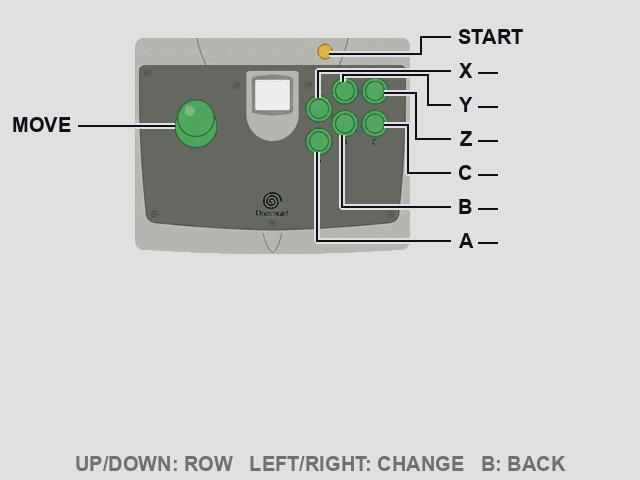
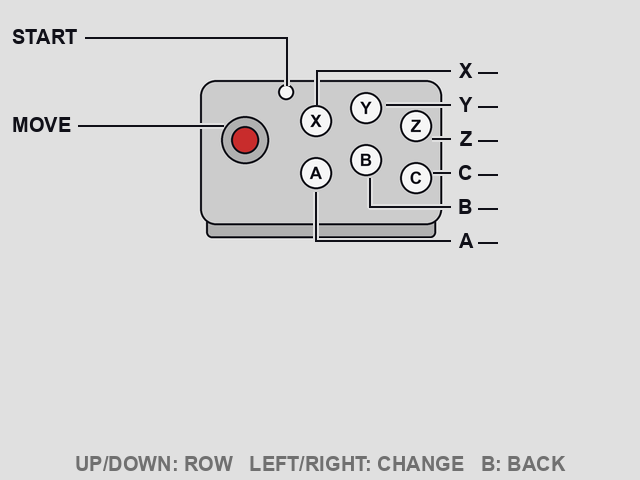
Controls art round 3: code-drawn HKT-7700/7300 schematics replace AI photos
Operator dropped the AI-generated diagrams (round-2 de-mottle still hit
the JPEG source's quality floor). draw_pad()/draw_stick() render both
devices as flat-color schematics at 4x -> Lanczos, union-outline
silhouettes, DC letter colors on the pad diamond. Photo pipeline
(smooth/autocrop/quantize/tint/floodfill) and the two *_diagram.png
sources deleted; button centres are geometry constants shared with the
leader-lands-on-button asserts. Leaders re-routed for the new geometry
(pad START leader doubles as the cable; stick Y overflies Z's top edge).

Claude-Session: https://claude.ai/code/session_01X6uFhpM3UtnfGFSiTQNCxS

diff --git a/scripts/gen_menu_assets.py b/scripts/gen_menu_assets.py
@@ -5,8 +5,8 @@ controls pages, loader/controls_pad.png / controls_stick.png (640x480), and
 emits loader/menu_layout.h (sheet rects + dest coordinates + the settings byte
 tables) and shims/src/layouts.h (button->JVS tables), both from menu_def.py.
 
-All art is drawn here (text + flat shapes) or derived from the operator's own
-controller diagrams -- never pixels from the game (copyright rule, CLAUDE.md).
+All art is drawn here (text + flat shapes, including the two controller
+schematics) -- never pixels from the game (copyright rule, CLAUDE.md).
 Rerun after any menu_def.py change, then VIEW build/preview_*.png: those
 composite the label chips onto the pages exactly as the C code blits them, and
 are the only check that an anchor actually lands beside its button.
@@ -15,7 +15,7 @@ are the only check that an anchor actually lands beside its button.
 import os
 import sys
 
-from PIL import Image, ImageDraw, ImageFilter, ImageFont
+from PIL import Image, ImageChops, ImageDraw, ImageFilter, ImageFont
 
 sys.path.insert(0, os.path.dirname(os.path.abspath(__file__)))
 import menu_def as M
@@ -128,14 +128,15 @@ def box_of(rect):
     return (x, y, x + w, y + h)
 
 
-# Controls pages, redesigned 2026-09-30 (operator leg: "labels outside the
-# gamepad image, gamepad image smaller"). Per page:
-#   art_h/art_x/art_y  the scaled art's paste box -- height drives the scale,
-#                      x/y are chosen so the art clears both label columns.
-#   buttons            button -> (src_x, src_y, src_r) in ORIGINAL art pixels
-#                      (1024x1024), used to assert each leader lands on its
-#                      button and to keep the hand-routed page-space leads
-#                      honest if the art or the scale ever moves.
+# Controls pages. Round 3 (2026-09-30): the operator dropped the AI-generated
+# photos ("the gamepad image still looks like shit") for schematics drawn in
+# code -- exact flat colors, no smooth/autocrop/quantize/tint pipeline, and
+# button centres that are geometry constants instead of measured pixels.
+# Per page:
+#   render             () -> (art image, paste origin); everything inside is
+#                      drawn in PAGE coordinates at 4x and downscaled once.
+#   buttons            button -> (page_x, page_y, r), the same constants the
+#                      render used; asserts each leader lands on its button.
 #   prefix             override for the baked "<button> --" tag (the DC pad's
 #                      triggers are CONT_LTRIG/RTRIG but read as "L"/"R").
 #   leads              button -> leader polyline in PAGE space, WITHOUT its
@@ -144,57 +145,127 @@ def box_of(rect):
 #   tags               invariant labels: (column, row centre y, text, polyline
 #                      tail). Same deal, but the leader starts just past the
 #                      baked text since there is no chip cell to leave from.
-# Routing rules the hand-picked polylines follow: orthogonal only, one elbow
-# where the art allows it, no two leaders crossing, and no leader crossing a
-# button it does not belong to. The stick's 3x2 cluster is the hard case --
-# Y sits behind Z from the right, so it is reached over the top of the
-# cluster, and X likewise over the top (a vertical at X's own centre, which
-# threads between the VMU and the START button).
+# Routing rules the hand-picked polylines follow: orthogonal only, elbows only
+# where the art forces them, no two leaders crossing, and no leader crossing
+# a button it does not belong to. The stick's staggered 3x2 cluster leaves a
+# clean lane per button (Y overflies Z's top edge; X drops over the top);
+# the pad's START rides up the grip gap and doubles as the cable.
+SS = 4                          # supersample factor for the drawn art
+SHELL = (204, 204, 204)         # device body (vs page BG 224)
+SHELL_DK = (176, 176, 176)      # wells, d-pad, triggers, stick base
+BTN_FACE = (246, 246, 246)      # button caps, VMU window
+LCD = (196, 208, 196)           # VMU screen
+BALL = (200, 44, 44)            # stick ball top
+PAD_LETTER = {"A": (200, 40, 40), "B": (40, 90, 200),
+              "X": (196, 150, 0), "Y": (30, 150, 60)}   # HKT-7700 colors
+
+
+def art_canvas(ox, oy, w, h):
+    """4x canvas + helpers that take PAGE coordinates. union() outlines the
+    union of several filled shapes (mask edge = mask minus its erosion), so
+    the pad shell and the d-pad cross get one clean silhouette outline."""
+    img = Image.new("RGB", (w * SS, h * SS), BG)
+
+    def box(x0, y0, x1, y1):
+        return [(x0 - ox) * SS, (y0 - oy) * SS, (x1 - ox) * SS, (y1 - oy) * SS]
+
+    def union(shapes, fill, width=2):
+        mask = Image.new("L", img.size, 0)
+        md = ImageDraw.Draw(mask)
+        for meth, b, kw in shapes:
+            getattr(md, meth)(b, fill=255, **kw)
+        edge = ImageChops.subtract(
+            mask, mask.filter(ImageFilter.MinFilter(2 * width * SS + 1)))
+        img.paste(fill, (0, 0), mask)
+        img.paste(FG, (0, 0), edge)
+
+    return img, ImageDraw.Draw(img), box, union
+
+
+def draw_pad():
+    """HKT-7700 schematic, front view: shoulder triggers, analog stick over
+    the d-pad, VMU window, START under it on the cable boss, A/B/X/Y diamond
+    with the pad's letter colors."""
+    ox, oy, w, h = 208, 70, 244, 168
+    img, d, B, union = art_canvas(ox, oy, w, h)
+    W = 2 * SS
+    for x0, x1 in [(240, 290), (370, 420)]:     # trigger nubs, shell overlaps
+        d.rounded_rectangle(B(x0, 76, x1, 96), radius=6 * SS,
+                            fill=SHELL_DK, outline=FG, width=W)
+    union([("rounded_rectangle", B(215, 90, 445, 175), dict(radius=42 * SS)),
+           ("ellipse", B(220, 110, 288, 230), {}),      # grip lobes
+           ("ellipse", B(372, 110, 440, 230), {}),
+           ("ellipse", B(307, 145, 353, 200), {})], SHELL)  # cable boss
+    d.ellipse(B(248, 94, 296, 142), fill=SHELL_DK, outline=FG, width=W)
+    d.ellipse(B(259, 105, 285, 131), fill=SHELL, outline=FG, width=W)
+    union([("rounded_rectangle", B(233, 161, 277, 175), dict(radius=3 * SS)),
+           ("rounded_rectangle", B(248, 146, 262, 190), dict(radius=3 * SS))],
+          SHELL_DK)                                     # d-pad cross
+    d.rounded_rectangle(B(306, 98, 354, 142), radius=8 * SS,
+                        fill=BTN_FACE, outline=FG, width=W)
+    d.rounded_rectangle(B(315, 106, 345, 134), radius=3 * SS,
+                        fill=LCD, outline=FG, width=SS)
+    d.ellipse(B(321, 173, 339, 191), fill=BTN_FACE, outline=FG, width=W)
+    f = ImageFont.truetype(FONT_PATH, 15 * SS)
+    for b, (bx, by, br) in PAD_PAGE["buttons"].items():
+        if b in ("LTRIG", "RTRIG"):
+            continue                                    # the nubs above
+        d.ellipse(B(bx - br, by - br, bx + br, by + br),
+                  fill=BTN_FACE, outline=FG, width=W)
+        d.text(((bx - ox) * SS, (by - oy) * SS), b, font=f,
+               fill=PAD_LETTER[b], anchor="mm")
+    return img.resize((w, h), Image.LANCZOS), (ox, oy)
+
+
+def draw_stick():
+    """HKT-7300 schematic, top-down: panel on its base, ball-top lever,
+    START top-centre, the staggered X/Y/Z + A/B/C rows."""
+    ox, oy, w, h = 192, 72, 258, 174
+    img, d, B, _ = art_canvas(ox, oy, w, h)
+    W = 2 * SS
+    d.rounded_rectangle(B(206, 215, 436, 238), radius=6 * SS,
+                        fill=SHELL_DK, outline=FG, width=W)   # base side
+    d.rounded_rectangle(B(200, 80, 442, 225), radius=16 * SS,
+                        fill=SHELL, outline=FG, width=W)      # panel
+    d.ellipse(B(221, 116, 269, 164), fill=SHELL_DK, outline=FG, width=W)
+    d.ellipse(B(231, 126, 259, 154), fill=BALL, outline=FG, width=W)
+    d.ellipse(B(278, 84, 294, 100), fill=BTN_FACE, outline=FG, width=W)
+    f = ImageFont.truetype(FONT_PATH, 17 * SS)
+    for b, (bx, by, br) in STICK_PAGE["buttons"].items():
+        d.ellipse(B(bx - br, by - br, bx + br, by + br),
+                  fill=BTN_FACE, outline=FG, width=W)
+        d.text(((bx - ox) * SS, (by - oy) * SS), b, font=f, fill=FG,
+               anchor="mm")
+    return img.resize((w, h), Image.LANCZOS), (ox, oy)
+
+
 PAD_PAGE = dict(
-    art_h=240, art_x=203, art_y=34,
-    buttons={"Y": (806, 363, 34), "X": (728, 437, 34),
-             "B": (884, 437, 34), "A": (806, 510, 34)},
+    render=draw_pad,
+    buttons={"Y": (400, 106, 13), "X": (375, 131, 13), "B": (425, 131, 13),
+             "A": (400, 156, 13),
+             "LTRIG": (265, 86, 14), "RTRIG": (395, 86, 14)},
     prefix={"LTRIG": "L", "RTRIG": "R"},
-    leads={"LTRIG": [(250, 72)],                    # upper-left shoulder
-           "RTRIG": [(390, 72)],                    # upper-right shoulder
-           "Y": [(404, 113)],
-           "B": [(415, 145), (415, 141)],
-           "A": [(395, 177), (395, 160)],
-           "X": [(375, 209), (375, 141)]},
-    tags=[(COL_L, 163, "MOVE", [(229, 163)]),       # d-pad, left edge
-          (COL_L, 205, "START", [(307, 205)])])     # start triangle, left edge
+    leads={"LTRIG": [(265, 72), (265, 80)],
+           "RTRIG": [(395, 72), (395, 80)],
+           "Y": [(411, 113)],
+           "B": [(426, 145), (426, 141)],
+           "A": [(400, 177), (400, 169)],
+           "X": [(365, 209), (365, 141)]},     # up the grip/body gap
+    tags=[(COL_L, 163, "MOVE", [(233, 163)]),  # d-pad left arm tip
+          (COL_L, 241, "START", [(330, 241), (330, 192)])])  # "the cable"
 STICK_PAGE = dict(
-    art_h=224, art_x=131, art_y=34,
-    buttons={"X": (666, 407, 42), "Y": (750, 349, 41), "Z": (849, 350, 41),
-             "A": (665, 516, 41), "B": (750, 456, 43), "C": (849, 456, 41)},
+    render=draw_stick,
+    buttons={"X": (316, 121, 16), "Y": (366, 108, 16), "Z": (416, 126, 16),
+             "A": (316, 173, 16), "B": (366, 160, 16), "C": (416, 178, 16)},
     prefix={},
-    leads={"X": [(317, 71), (317, 97)],
-           "Y": [(428, 105), (428, 75), (342, 75), (342, 81)],
-           "Z": [(416, 139), (416, 93), (384, 93)],
-           "C": [(408, 173), (408, 125), (384, 125)],
-           "B": [(342, 207), (342, 135)],    # -3: round-2 autocrop moved the
-           "A": [(317, 241), (317, 152)]},   # art 3px, these two fell short
-    tags=[(COL_L, 125, "MOVE", [(174, 125)]),       # lever, left edge
-          (COL_R, 37, "START", [(420, 37), (420, 54), (329, 54)])])
-
-
-def smooth_art(im):
-    """De-noise the operator's JPEG art BEFORE it is scaled, split luma from
-    chroma so each gets the kernel it needs (round 2, 2026-09-30: operator
-    saw "different colors, like spots, like gray leopard" on the pad shell).
-    Luma keeps a 3x median -- enough for the JPEG ringing, small enough to
-    leave the thin outline strokes and the baked glyphs ("Dreamcast", the
-    stick's X/Y/Z/A/B/C) intact; 5x and up mush them (viewed).
-    Chroma gets a 7x median, which is the actual leopard fix's other half:
-    JPEG's colour noise leaves near-neutral greys with a few units of chroma,
-    and the post-scale octree then splits them into SATURATED leaves -- red
-    and green confetti pixels along the pad's analog ring (viewed at 3x).
-    7x kills that; 15x also drains the orange out of the Dreamcast swirl."""
-    y, cb, cr = im.convert("YCbCr").split()
-    return Image.merge("YCbCr",
-                       [y.filter(ImageFilter.MedianFilter(3)),
-                        cb.filter(ImageFilter.MedianFilter(7)),
-                        cr.filter(ImageFilter.MedianFilter(7))]).convert("RGB")
+    leads={"X": [(316, 71), (316, 104)],       # over the top, down X's lane
+           "Y": [(386, 105)],                  # overflies Z's top edge
+           "Z": [(432, 139)],
+           "C": [(433, 173)],
+           "B": [(370, 207), (370, 178)],      # under C, up to B
+           "A": [(316, 241), (316, 192)]},     # under everything, up X's lane
+    tags=[(COL_L, 125, "MOVE", [(223, 125)]),
+          (COL_L, 37, "START", [(286, 37), (286, 85)])])
 
 
 def label(draw, x, cy, text, anchor="lm"):
@@ -205,76 +276,16 @@ def label(draw, x, cy, text, anchor="lm"):
 
 
 def build_page(name, spec, anchors):
-    """640x480 controls page: operator art cleaned, autocropped, scaled to
-    spec["art_h"] and pasted at (art_x, art_y), then the baked leader lines,
-    button prefixes, invariant labels and footer -- all outside the art."""
-    art = os.path.join(LOADER_DIR, f"{name}_diagram.png")
-    assert os.path.exists(art), f"missing {art} (operator-provided art)"
-    src = smooth_art(Image.open(art).convert("RGB"))
-    # autocrop the art's own margin. The threshold is relative to the corner
-    # level, not a fixed near-white: the stick art's background is light grey
-    # (232), so a fixed "darker than 245" test crops nothing. DARKER than the
-    # corner level, not |difference|: both devices are darker than the paper
-    # they were shot on, while the photos' brighter-than-paper glare is
-    # background. The old |diff| form only worked because the pre-scale
-    # quantize happened to snap the glare back down; once that moved after the
-    # downscale (see below) a 239 speck 10px above the stick cabinet started
-    # dragging the crop box up with it.
-    g = src.convert("L")
-    lvl = sorted(g.getpixel(p) for p in [(2, 2), (src.width - 3, 2),
-                                         (2, src.height - 3),
-                                         (src.width - 3, src.height - 3)])[2]
-    bbox = g.point(lambda p: 255 if lvl - p > 14 else 0).getbbox()
-    assert bbox, f"{name}: autocrop found no content"
-    pad = 12
-    cx0, cy0 = max(bbox[0] - pad, 0), max(bbox[1] - pad, 0)
-    src = src.crop((cx0, cy0, min(bbox[2] + pad, src.width),
-                    min(bbox[3] + pad, src.height)))
-    scale = spec["art_h"] / src.height
-    dw, dh = round(src.width * scale), spec["art_h"]
-    # Quantize AFTER the Lanczos downscale, not before it (round 2 fix). The
-    # source photos carry low-frequency shading a median cannot touch; at full
-    # res 64 octree leaves spread over it and froze it into distinct greys --
-    # the "gray leopard" blotches the operator reported, which the downscale
-    # then faithfully carried to the page. On the 240px-tall art the same 64
-    # leaves cover a far smaller colour volume, so each large fill collapses
-    # to ONE tone (viewed at 3x through an RGB565 round-trip: the stick's dark
-    # panel is now uniform). Still octree, still 64, still no dither, for the
-    # reasons the earlier legs found: MEDIANCUT allocates by pixel population
-    # and greyed out the red A / blue B buttons, and 32 leaves nothing for the
-    # thin light-grey strokes (dashed analog ring, mush START).
-    img = src.resize((dw, dh), Image.LANCZOS).quantize(
-        colors=64, method=Image.FASTOCTREE,
-        dither=Image.Dither.NONE).convert("RGB")
-    # tint so the art's own background lands exactly on the page BG: sample
-    # the bg level from the corners (inside the autocrop pad, pure bg by
-    # construction) and scale all pixels by BG/bg_level
-    g = img.convert("L")
-    bg_level = sorted(g.getpixel(p) for p in
-                      [(2, 2), (dw - 3, 2), (2, dh - 3), (dw - 3, dh - 3)])[2]
-    img = img.point(lambda p: min(255, p * BG[0] // bg_level))
-    # flatten the outer bg region to exactly BG (the tint gets it close; the
-    # art bg's soft gradient would still show as a faint block edge on the
-    # page without this). Interior lights (VMU window, pad body) are enclosed
-    # by darker outlines, so the fill cannot reach them. thresh is PIL's
-    # summed-channel difference: 60 = ~20/channel, enough for the bg's +-8
-    # gradient, far below the outlines. Two-pass sentinel fill: floodfill()
-    # no-ops when the seed already sits within thresh of the target value
-    # (our corners == BG by the tint above), so fill to a sentinel first,
-    # then sentinel -> BG.
-    SENTINEL = (255, 0, 255)
-    for corner in [(2, 2), (dw - 3, 2), (2, dh - 3), (dw - 3, dh - 3)]:
-        ImageDraw.floodfill(img, corner, SENTINEL, thresh=60)
-        ImageDraw.floodfill(img, corner, BG, thresh=60)
+    """640x480 controls page: device schematic rendered by spec["render"],
+    pasted at its origin, then the baked leader lines, button prefixes,
+    invariant labels and footer -- all outside the art."""
+    img, (ox, oy) = spec["render"]()
+    dw, dh = img.size
     page = Image.new("RGB", (640, 480), BG)
-    ox, oy = spec["art_x"], spec["art_y"]
     artbox = (ox, oy, ox + dw, oy + dh)
     assert 0 <= ox and ox + dw <= 640 and oy + dh <= 340, \
         f"{name}: art {dw}x{dh} at ({ox},{oy}) leaves the art region"
     page.paste(img, (ox, oy))
-
-    def to_page(sx, sy):        # original art pixel -> page pixel
-        return (round((sx - cx0) * scale) + ox, round((sy - cy0) * scale) + oy)
 
     # every label row: (leader polyline, then what to draw in the margin)
     polys, texts = [], []
@@ -308,19 +319,18 @@ def build_page(name, spec, anchors):
         assert chip[2] <= artbox[0] or artbox[2] <= chip[0] \
             or chip[3] <= artbox[1] or artbox[3] <= chip[1], \
             f"{name} {b}: chip {chip} overlaps the art box {artbox}"
-    for b, (sx, sy, sr) in spec["buttons"].items():
-        bx, by = to_page(sx, sy)
+    for b, (bx, by, br) in spec["buttons"].items():
         ex, ey = spec["leads"][b][-1]
         dist = ((ex - bx) ** 2 + (ey - by) ** 2) ** 0.5
-        assert dist <= sr * scale + 5, \
+        assert dist <= br + 5, \
             f"{name} {b}: leader ends at ({ex},{ey}), {dist:.1f}px from the " \
-            f"button at ({bx},{by}) r{sr * scale:.1f}"
+            f"button at ({bx},{by}) r{br}"
 
     check_fits(d, 640, 24, M.CTL_FOOTER, F_ROW)
     d.text((320, 464), M.CTL_FOOTER, font=F_ROW, fill=GREY, anchor="mm")
-    print(f"gen_menu_assets: controls_{name}.png art {dw}x{dh} at ({ox},{oy}) "
-          f"scale {scale:.4f}, buttons "
-          + " ".join(f"{b}{to_page(*v[:2])}" for b, v in
+    print(f"gen_menu_assets: controls_{name}.png art {dw}x{dh} at ({ox},{oy}),"
+          " buttons "
+          + " ".join(f"{b}({v[0]},{v[1]})" for b, v in
                      sorted(spec["buttons"].items())))
     return page
 

diff --git a/docs/kb/phase7-polishing.md b/docs/kb/phase7-polishing.md
@@ -3304,6 +3304,20 @@ minors deferred to the whole-branch review's ledger; one fix round on
 T5 (cosmetic chip issues, both closed same task). No Important/Critical
 findings on any task.
 
+**Art rounds (operator-driven, post-review):** round 1 rejected the
+labels-on-art pages outright → redesign `9b7e67a` (labels outside in
+two columns, "<button> —" prefixes, haloed leader lines, smaller art).
+Round 2 (`47deacc`) baked `<` `>` arrows into the pad value chips and
+chased the "gray leopard" mottling (quantize moved after the Lanczos
+downscale + YCbCr median split). Round 3 (2026-09-30): the AI-generated
+photos were still the quality floor — operator approved dropping them
+for schematics drawn in code (`gen_menu_assets.py draw_pad()` /
+`draw_stick()`, 4x supersample → Lanczos, flat palette, union-outline
+silhouettes). The whole photo pipeline (smooth/autocrop/quantize/tint/
+floodfill) and `loader/pad_diagram.png` / `stick_diagram.png` deleted;
+button centres are now geometry constants shared with the
+leader-lands-on-button asserts.
+
 **Verification state:** host tests (`shims/test/test_host.c`) cover all
 three layout tables, the `jvs_pick_layout` classifier, per-port
 independence, and out-of-range preset fallback; one emulator boot-leg

diff --git a/docs/kb/input-map.md b/docs/kb/input-map.md
@@ -177,8 +177,10 @@ as every other `SHIM_STATE` word (loader-staged, not EEPROM-backed).
 three-row selector: P1 PAD LAYOUT, P2 PAD LAYOUT, STICK LAYOUT (fixed,
 display-only). Left/right on a pad row flips that port's preset
 (`loader/menu.c:155-158`, `menu_pad_layout[cur] ^= 1`); the diagram
-underneath previews whichever row is highlighted, on the operator-provided
-HKT-7700 (pad) or HKT-7300 (stick) art page. The page opens on the Stick row
+underneath previews whichever row is highlighted, on the HKT-7700 (pad) or
+HKT-7300 (stick) art page (schematics drawn in code by
+`scripts/gen_menu_assets.py draw_pad()/draw_stick()` since 2026-09-30 —
+round 3 replaced the AI-generated photos). The page opens on the Stick row
 iff a stick is detected on the menu's own input pad, via the same caps rule
 (`loader/menu.c:132-140 stick_on_menu_pad()`, masking
 `function_data[0] & 0x00000f00` — the same four capability bits
